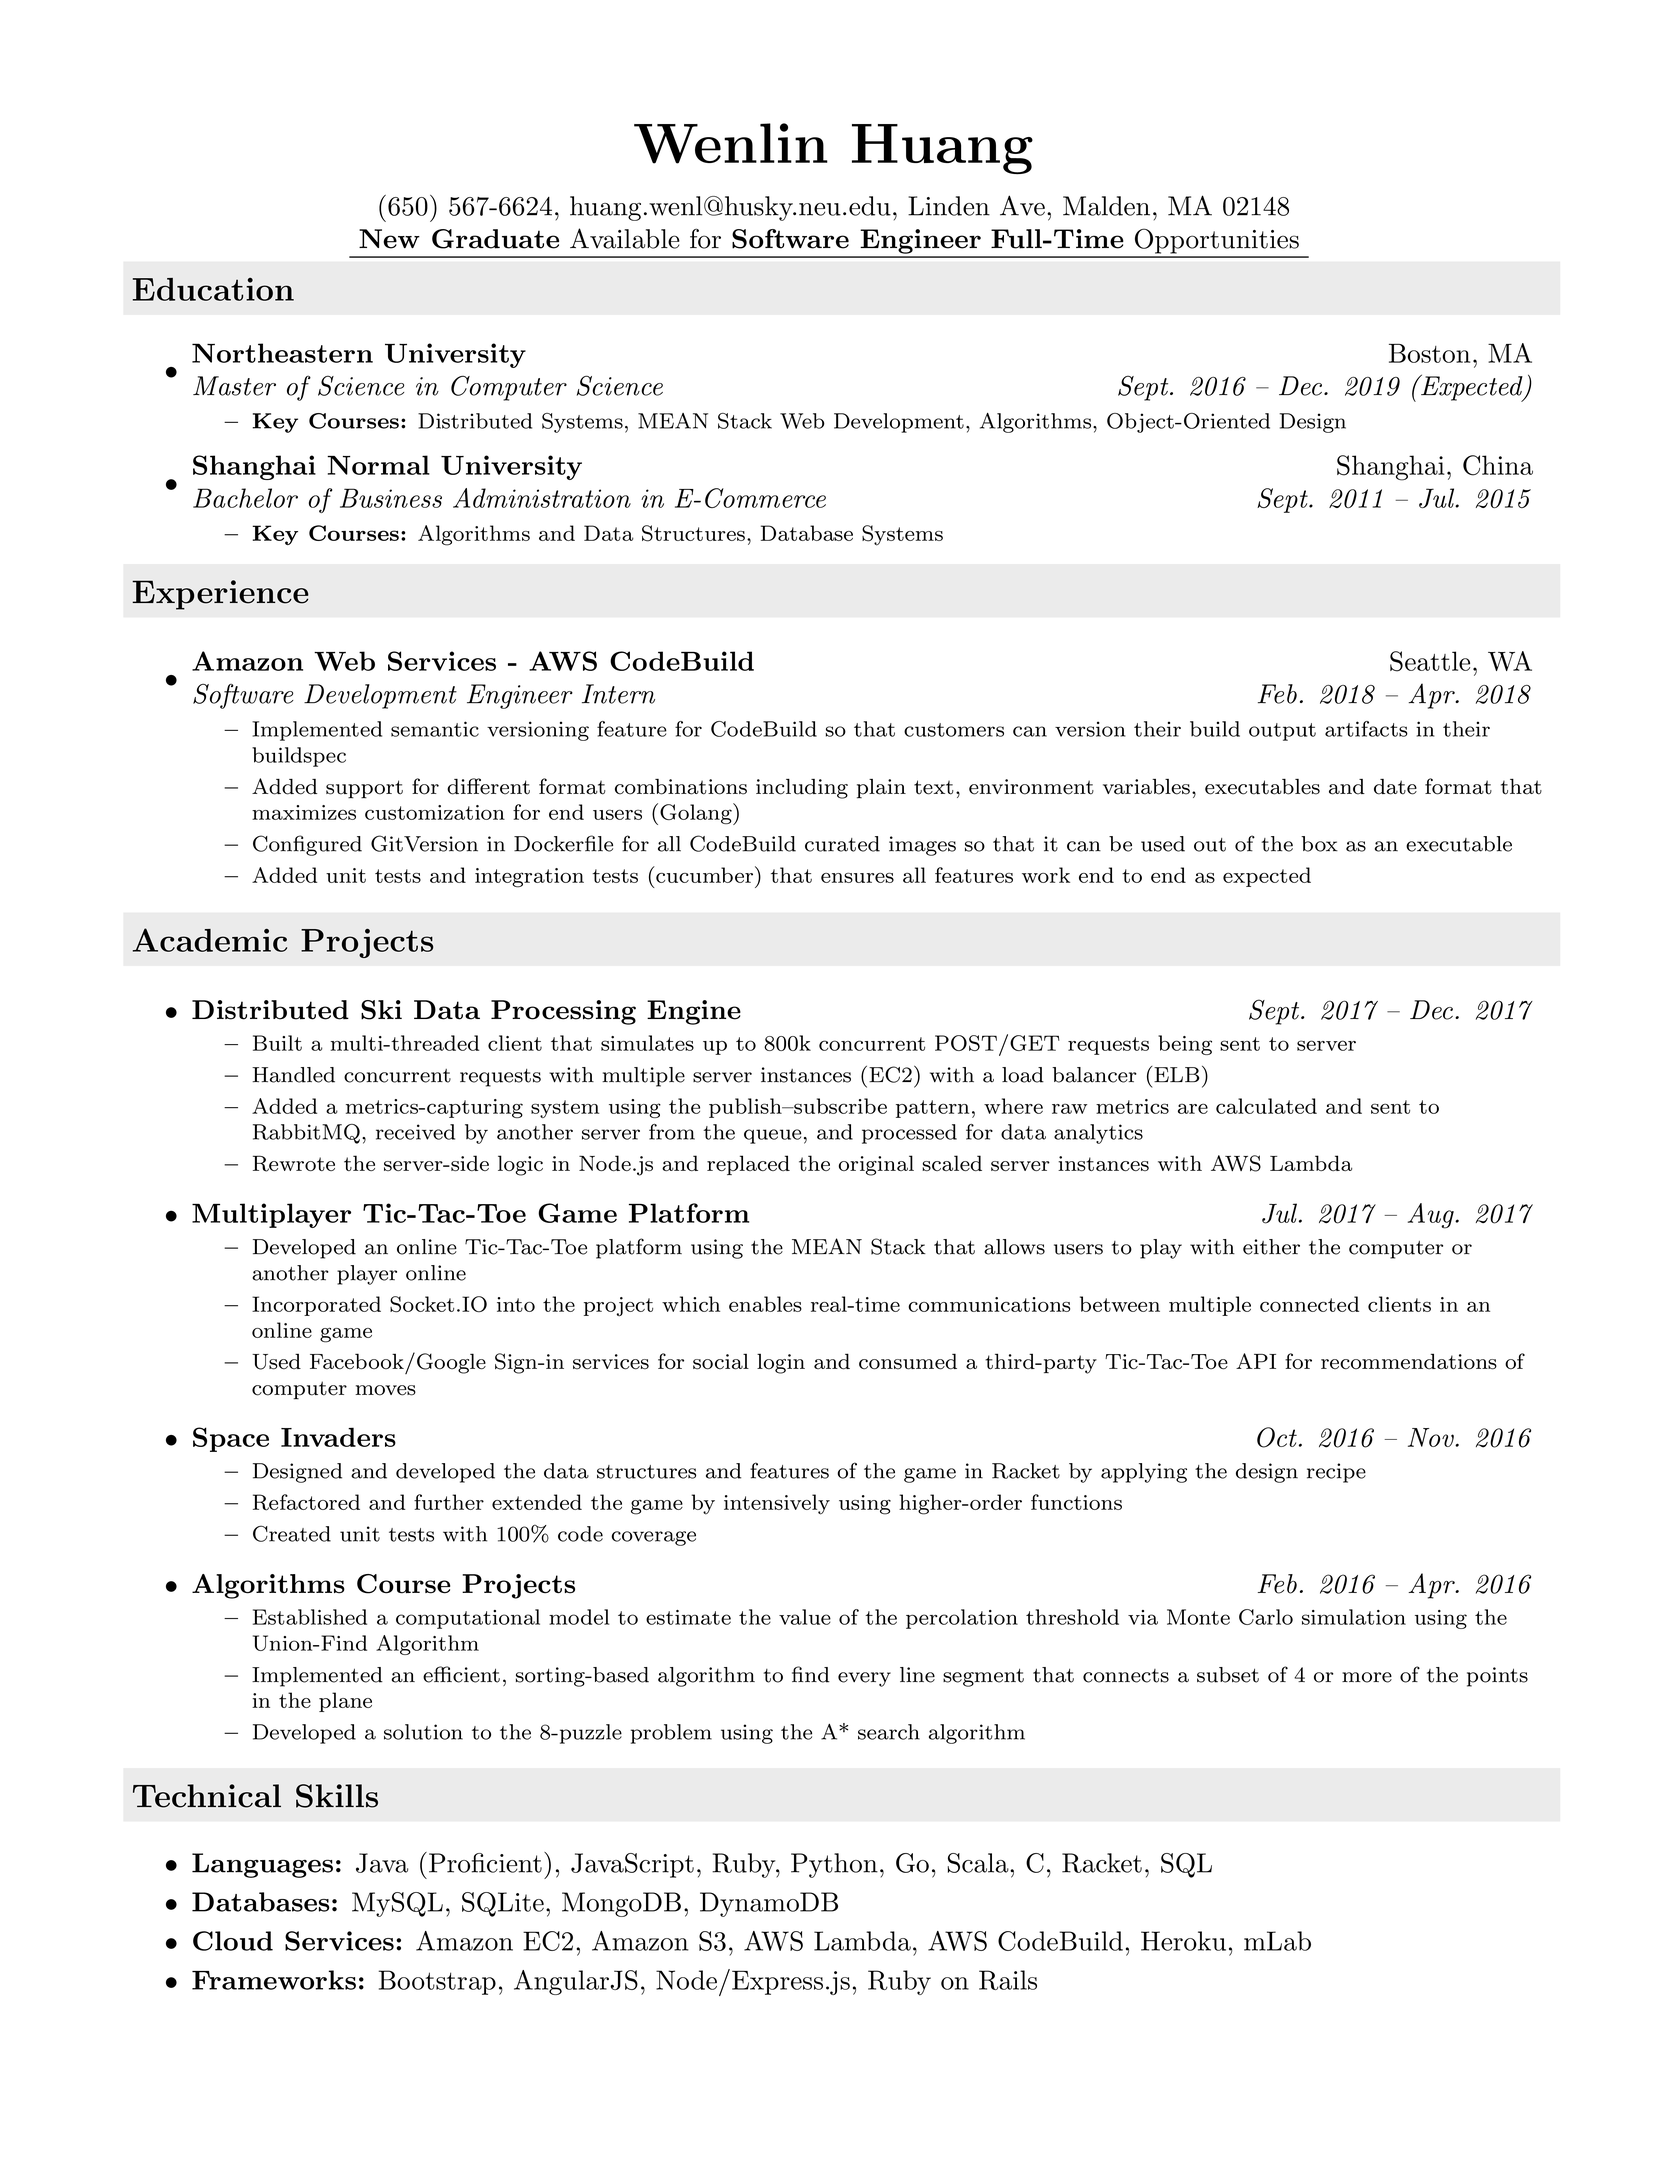
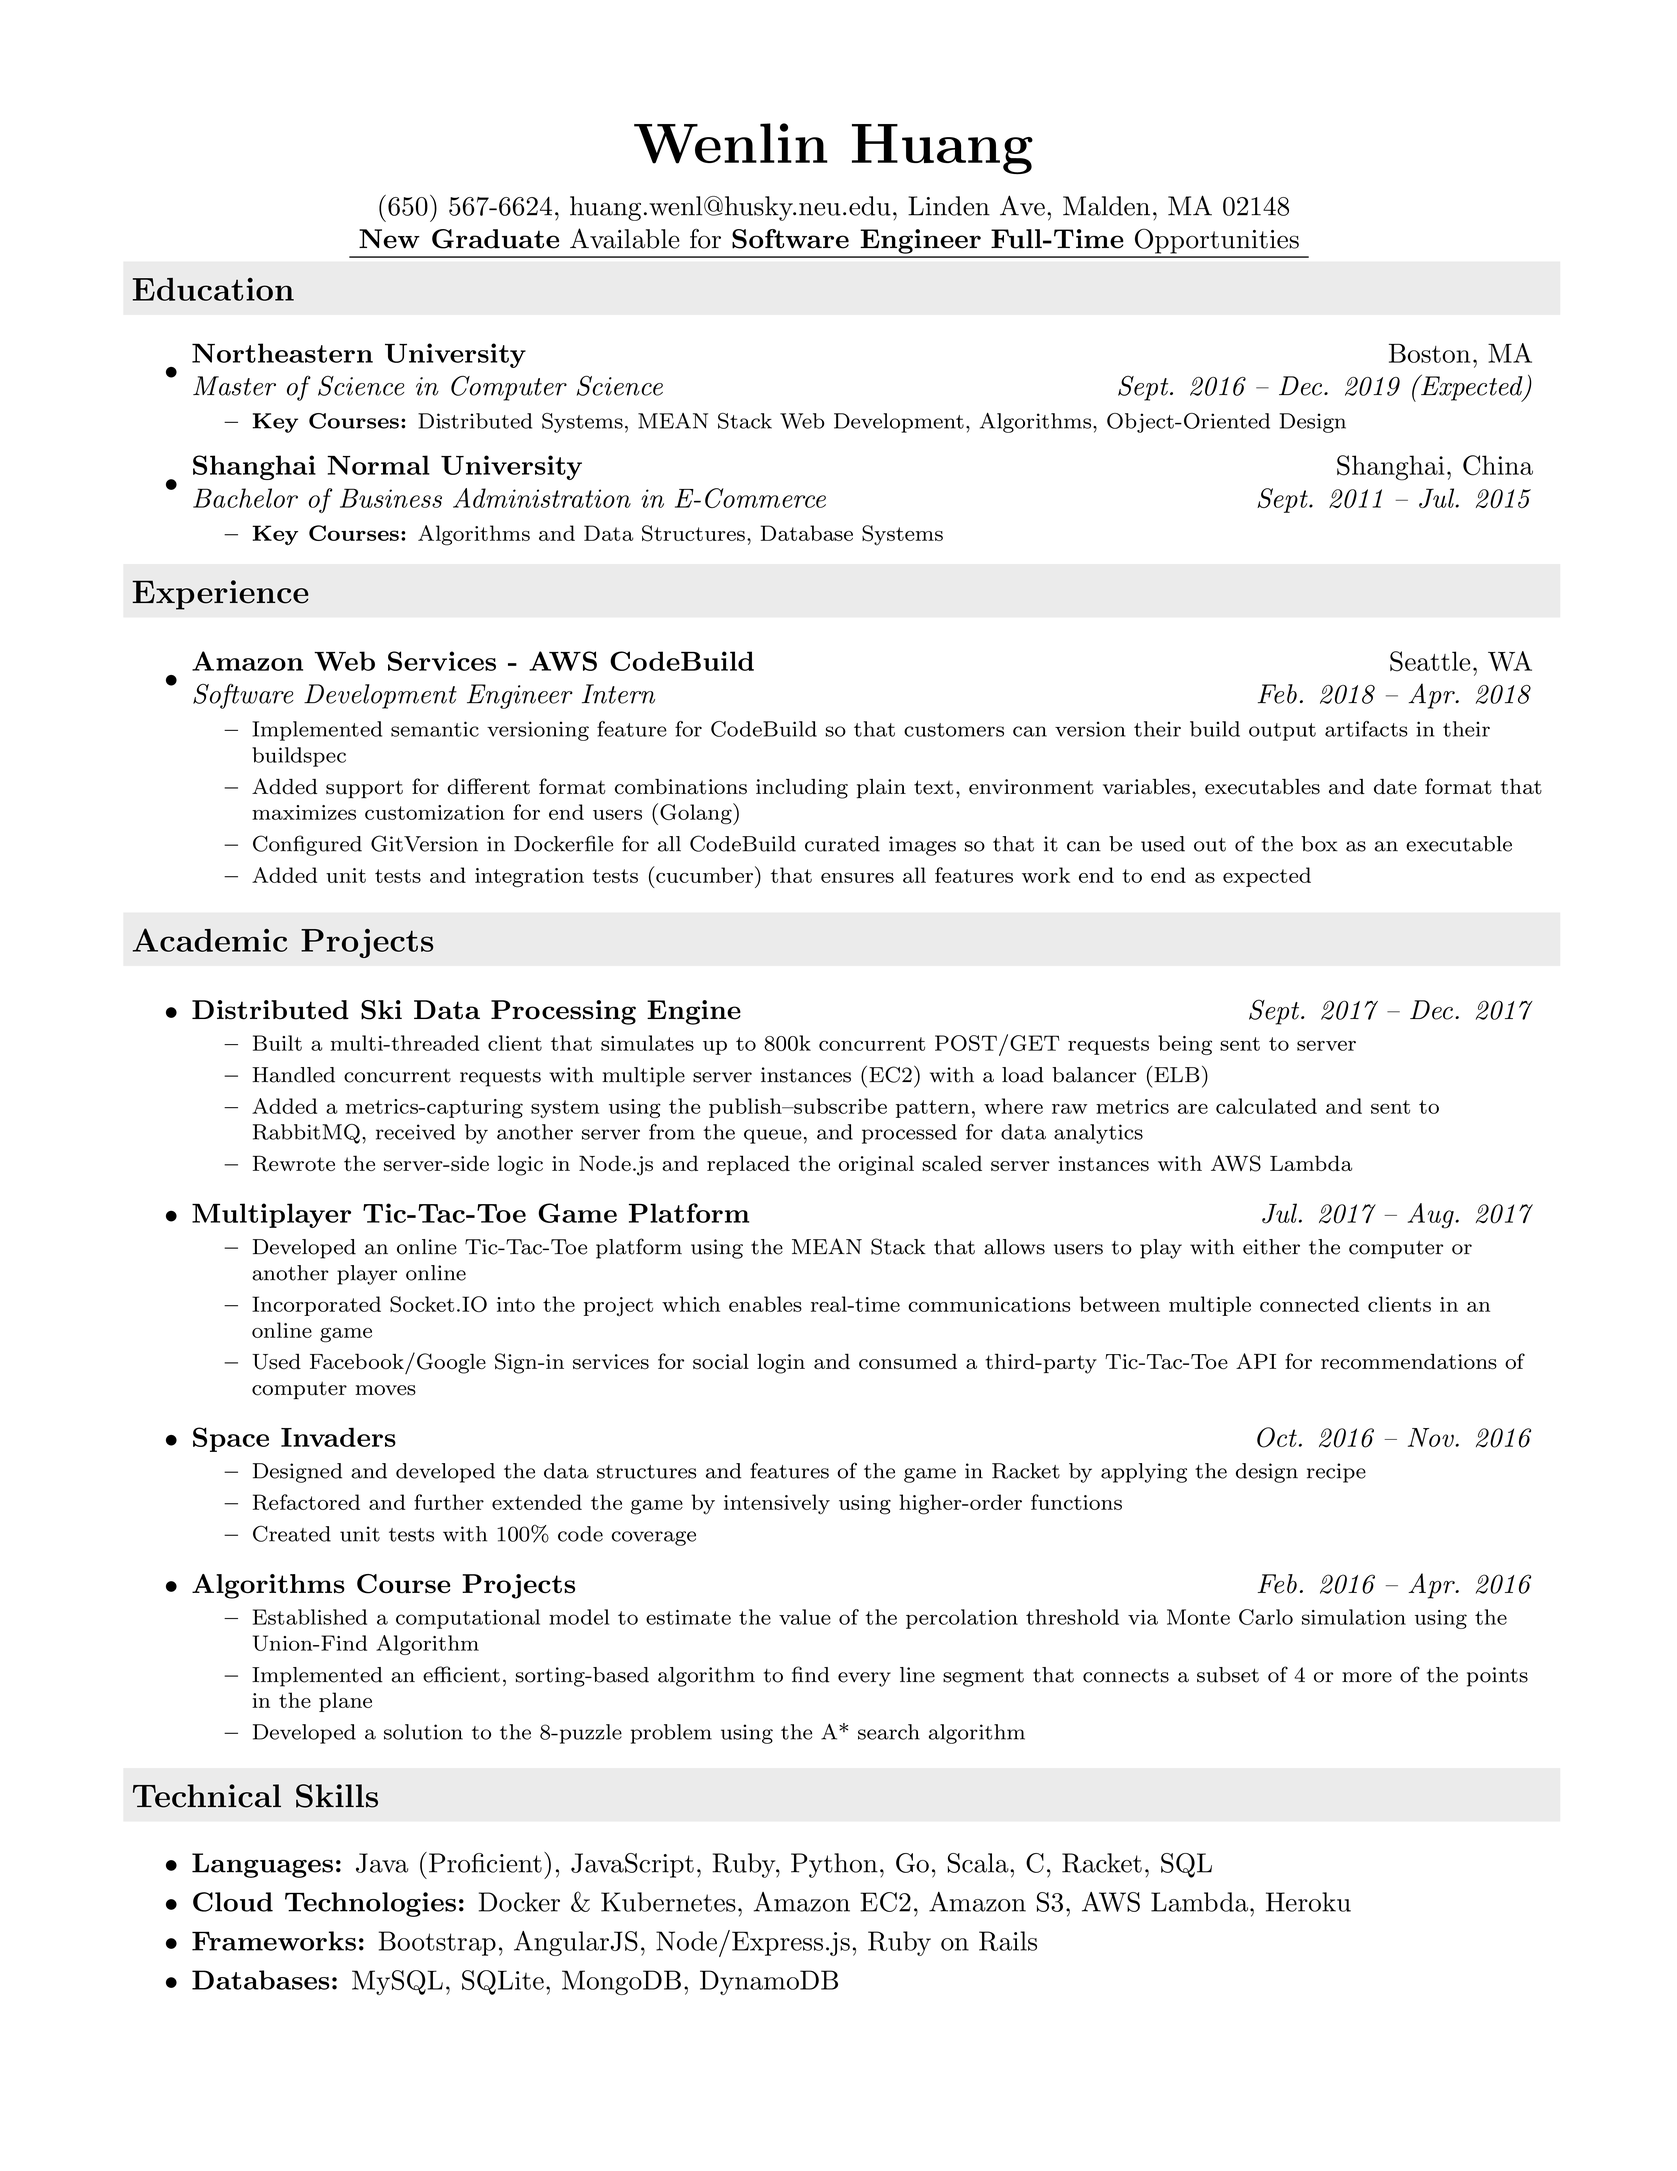
Add Docker & Kubernetes in technical skills

Changed region(s): [[0.125, 0.875, 0.7812, 0.9375]]

diff --git a/src/Wenlin Huang - Software Engineer.tex b/src/Wenlin Huang - Software Engineer.tex
@@ -283,18 +283,18 @@ urlcolor=black
         Java (Proficient), JavaScript, Ruby, Python, Go, Scala, C, Racket, SQL
         }
         \item {
-        \textbf{Databases:}
+        \textbf{Cloud Technologies:}
         \vspace{-0.2cm}
-        MySQL, SQLite, MongoDB, DynamoDB
-        }
-        \item {
-        \textbf{Cloud Services:}
-        \vspace{-0.2cm}
-        Amazon EC2, Amazon S3, AWS Lambda, AWS CodeBuild, Heroku, mLab
+        Docker \& Kubernetes, Amazon EC2, Amazon S3, AWS Lambda, Heroku
         }
         \item {
         \textbf{Frameworks:}
+        \vspace{-0.2cm}
         Bootstrap, AngularJS, Node/Express.js, Ruby on Rails
+        }
+        \item {
+        \textbf{Databases:}
+        MySQL, SQLite, MongoDB, DynamoDB
         }
     \end{itemize}
 
